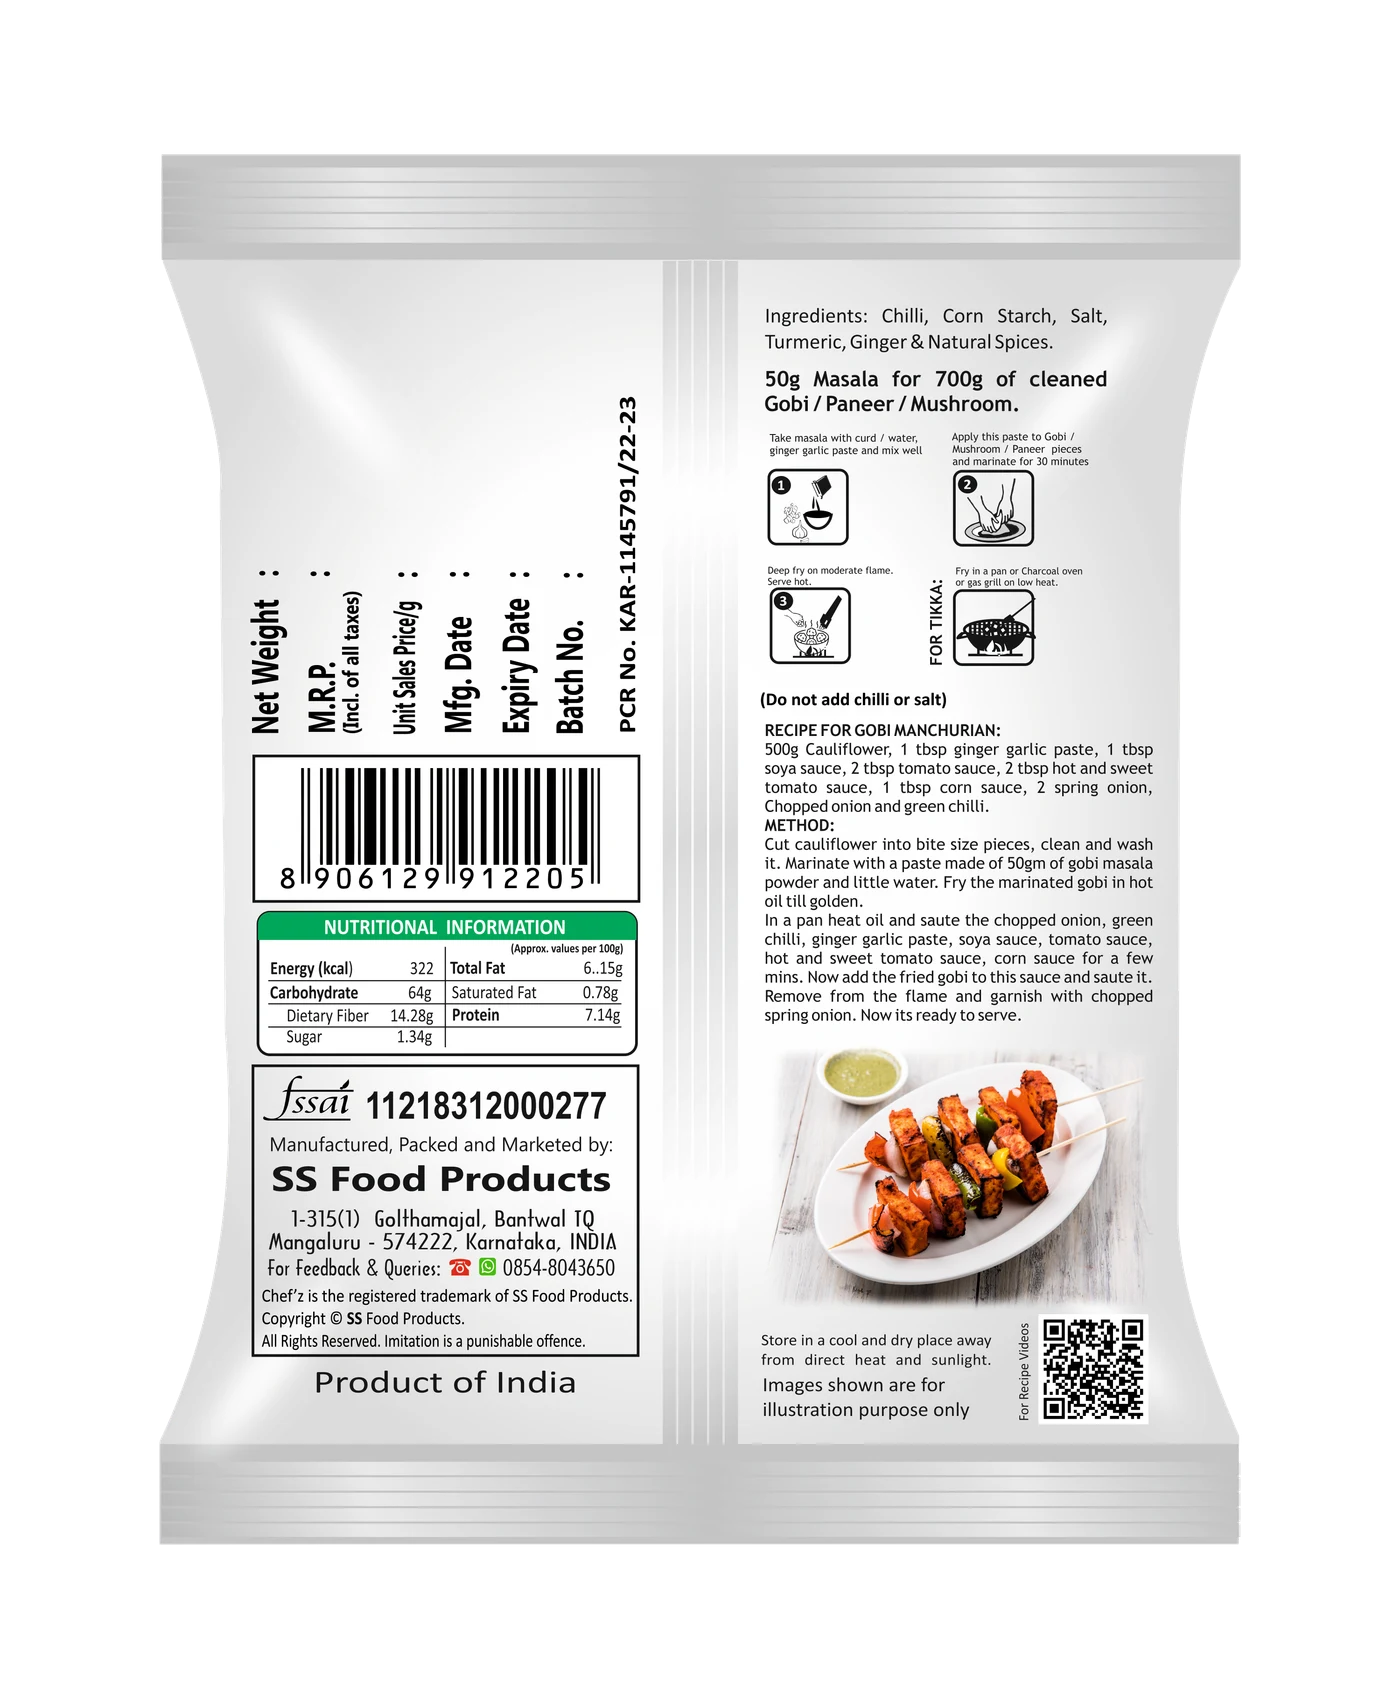
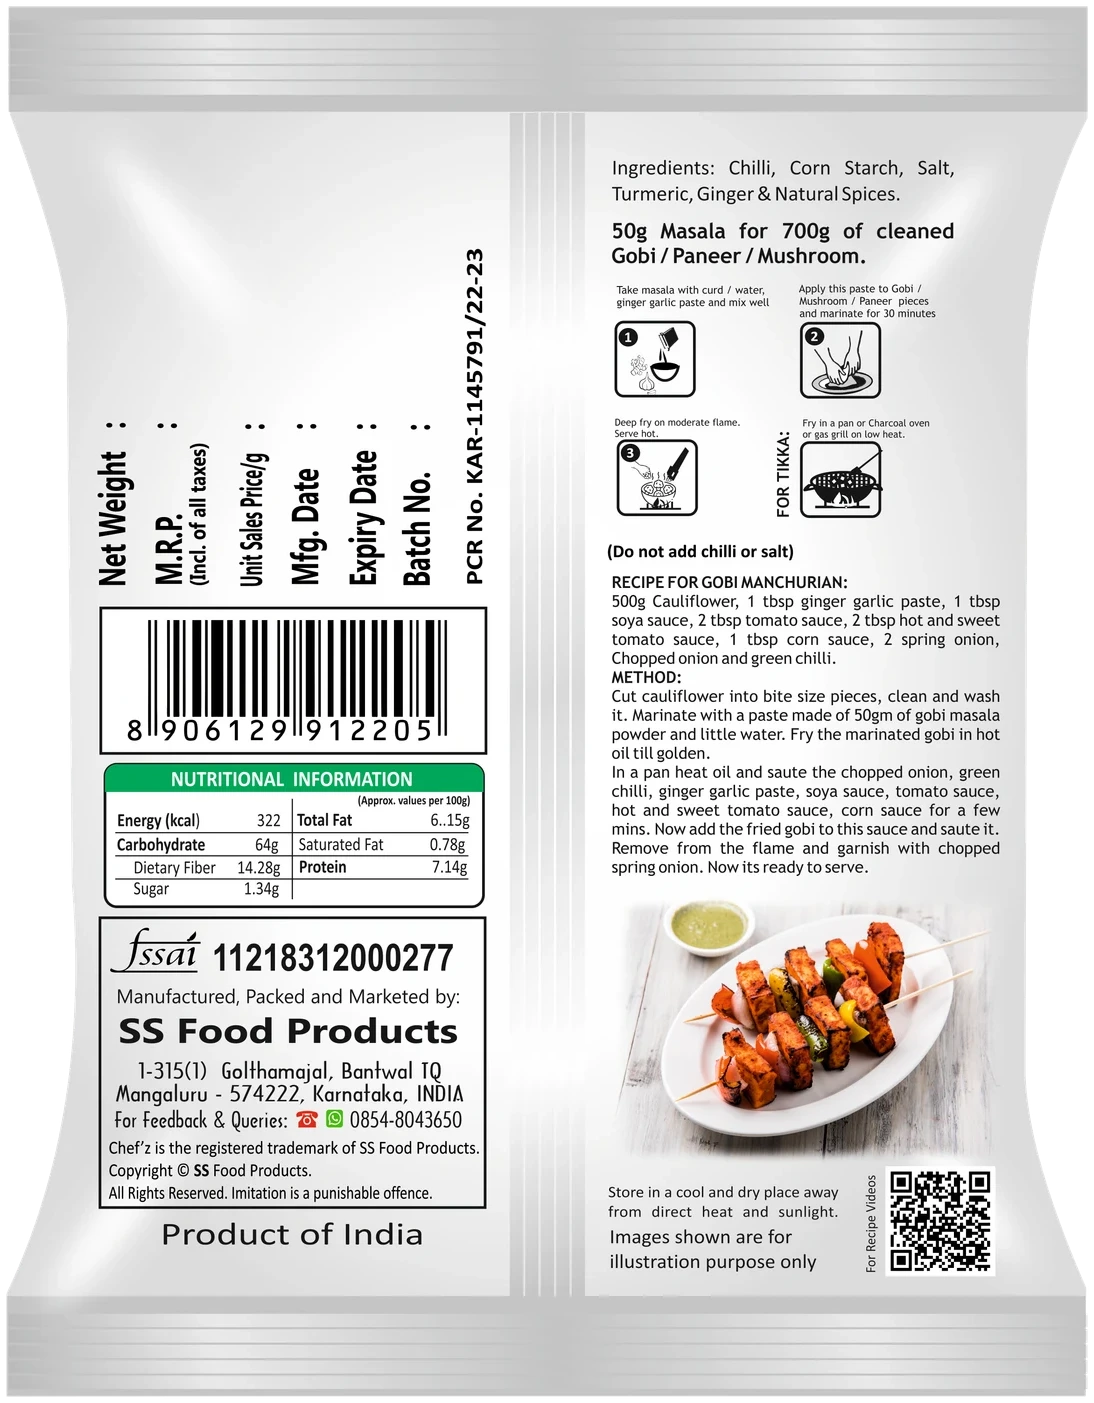
Phase 6: responsive polish across phone and tablet
- Product hero flip on small screens now starts at zero progress and
  completes while the pack is still on screen, no more edge-on pack at load
- Story reel pin shortened on phones so the three statements read as a
  moment, not a long trek of blank scroll
- Gobi Manchurian pack artwork trimmed to its cutout (front and back
  cropped identically) so both packs render at matching size in the 3D
  stage, the flip hero and every flat fallback

Verified with headless runs at 390, 768 and 1440 wide: no horizontal
overflow, mobile menu works, zero console errors on all three pages.

Claude-Session: https://claude.ai/code/session_01EdacPwP4j2VXuD9jd38teW

diff --git a/src/components/sections/StoryReel.tsx b/src/components/sections/StoryReel.tsx
@@ -26,7 +26,13 @@ export default function StoryReel() {
   useEffect(() => {
     const mm = gsap.matchMedia(sectionRef);
 
-    mm.add("(prefers-reduced-motion: no-preference)", () => {
+    mm.add(
+      {
+        roomy: "(prefers-reduced-motion: no-preference) and (min-width: 769px)",
+        tight: "(prefers-reduced-motion: no-preference) and (max-width: 768px)",
+      },
+      (context) => {
+      const tight = Boolean((context.conditions as { tight?: boolean }).tight);
       const statements = gsap.utils.toArray<HTMLElement>(
         `.${styles.statement}`,
       );
@@ -47,7 +53,8 @@ export default function StoryReel() {
         scrollTrigger: {
           trigger: sectionRef.current,
           start: "top top",
-          end: "+=260%",
+          // Phones get a shorter hold so the reel stays a moment, not a trek
+          end: tight ? "+=190%" : "+=260%",
           scrub: 0.6,
           pin: true,
         },
@@ -79,7 +86,8 @@ export default function StoryReel() {
         gsap.set(`.${styles.reel}`, { clearProps: "height" });
         gsap.set(statements, { clearProps: "all" });
       };
-    });
+      },
+    );
 
     return () => mm.revert();
   }, []);

diff --git a/src/components/product/ProductHero.tsx b/src/components/product/ProductHero.tsx
@@ -102,7 +102,9 @@ export default function ProductHero({
             scrub: 0.5,
             ...(pinned
               ? { start: "top top", end: "+=160%", pin: true }
-              : { start: "top 55%", end: "bottom 30%" }),
+              : // The hero already sits at the top of the page, so the flip
+                // must begin at zero and finish while the pack is on screen
+                { start: "top top", end: "+=90%" }),
             onUpdate: (self) => {
               progressRef.current = self.progress;
             },

diff --git a/README.md b/README.md
@@ -65,7 +65,7 @@ docs/                  Environment and integration documentation
 | 3 | 3D Hero (R3F spice particles + interactive pack stage) | Done, real package artwork committed |
 | 4 | Scroll storytelling (story reel, flavour scenes, ritual, promise, footer) | Done |
 | 5 | Product pages (pinned 3D pack flip, dish parade, blend story, cross-link) | Done |
-| 6 | Responsive | Pending |
+| 6 | Responsive (phone/tablet audit, flip + reel pacing, balanced pack artwork) | Done |
 | 7 | Optimization | Pending |
 | 8 | Deployment | Pending |
 
